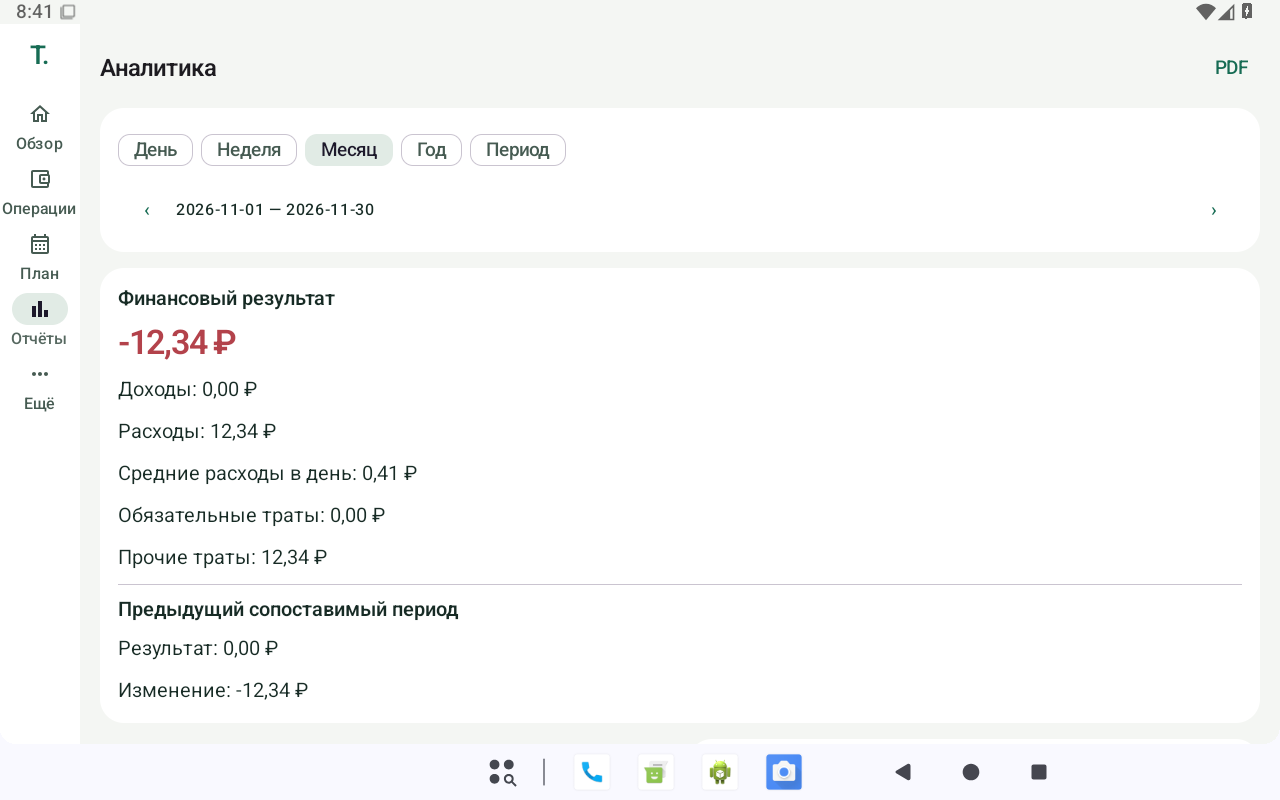
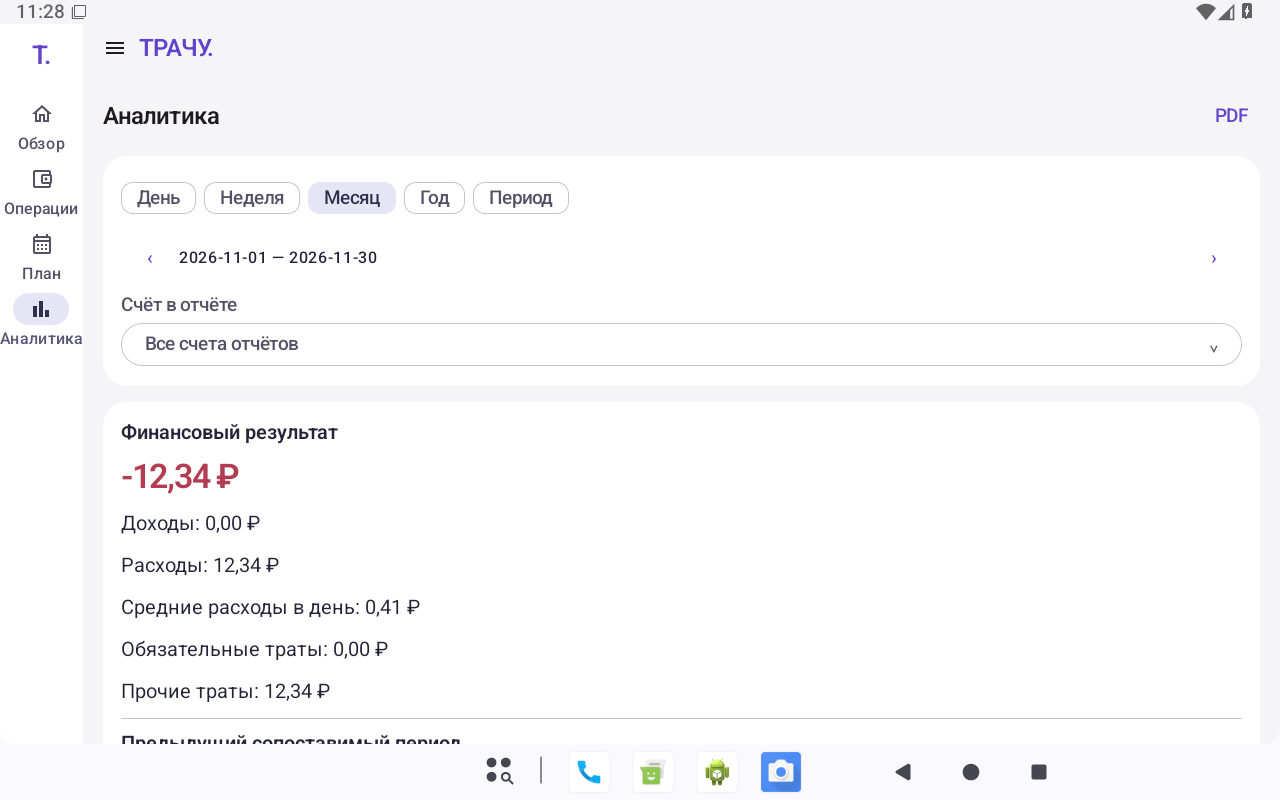
Record green 1.1.0 evidence and publish verified screenshots

diff --git a/site/index.html b/site/index.html
@@ -36,7 +36,7 @@
 <div id="budget" class="demo-screen"><h3>Бюджеты</h3><div class="demo-item"><b>Продукты</b><span>12 400 / 20 000 ₽</span><progress value="12400" max="20000">62%</progress></div><div class="demo-item"><b>Транспорт</b><span>3 500 / 6 000 ₽</span><progress value="3500" max="6000">58%</progress></div><div class="demo-item"><b>Развлечения</b><span>2 000 / 5 000 ₽</span><progress value="2000" max="5000">40%</progress></div></div>
 <div id="goals" class="demo-screen"><h3>Цели</h3><div class="demo-item"><b>Отпуск</b><span>24 000 / 40 000 ₽</span><progress value="24000" max="40000">60%</progress></div><div class="demo-item"><b>Финансовая подушка</b><span>45 000 / 100 000 ₽</span><progress value="45000" max="100000">45%</progress></div></div></div>
 <div class="demo-copy"><h3>Ваши деньги, ваши правила.</h3><p>Начните с выбора валюты и остатка первого счёта. Короткое обучение можно пропустить и открыть снова из бокового меню. Светлая и тёмная темы.</p><p>В приложении также предусмотрены защита PIN, биометрия и виджет быстрого доступа.</p></div></div></div></section>
-<section class="section" id="screens"><p class="kicker">Архив 1.0.0</p><h2>Предыдущий интерфейс.</h2><p class="intro">Эти реальные снимки относятся к версии 1.0.0, до переработки оформления. Все записи и суммы тестовые.</p><details><summary>Посмотреть архивные снимки</summary><div class="screens-grid"><figure><img src="assets/screens/phone-dashboard.png" alt="Общий баланс и быстрые действия ТРАЧУ. на смартфоне" width="320" height="640" loading="lazy"><figcaption>Обзор</figcaption></figure><figure><img src="assets/screens/phone-operations.png" alt="Поиск и фильтры операций на смартфоне" width="320" height="640" loading="lazy"><figcaption>Операции</figcaption></figure><figure class="wide-screen"><img src="assets/screens/tablet-analytics.png" alt="Аналитика и боковая навигация на планшете" width="1280" height="800" loading="lazy"><figcaption>Аналитика на планшете</figcaption></figure></div></details></section>
+<section class="section" id="screens"><p class="kicker">Реальный интерфейс 1.1.0</p><h2>Так выглядит приложение.</h2><p class="intro">Снимки из успешного Android CI <a href="https://github.com/epbloger/trachu/actions/runs/45809724539">#45809724539</a>, коммит <code>227cf9e</code>. Все записи и суммы тестовые; это не изображения концепции.</p><div class="screens-grid"><figure><img src="assets/screens/phone-dashboard.png" alt="Общий баланс и быстрые действия на смартфоне" width="1080" height="1920" loading="lazy"><figcaption>Обзор</figcaption></figure><figure><img src="assets/screens/phone-operations.png" alt="Поиск и фильтры операций" width="1080" height="1920" loading="lazy"><figcaption>Операции</figcaption></figure><figure><img src="assets/screens/phone-onboarding.png" alt="Выбор основной валюты и первого счёта" width="1080" height="1920" loading="lazy"><figcaption>Первоначальная настройка</figcaption></figure><figure><img src="assets/screens/phone-split-entry.png" alt="Распределение расхода по категориям" width="1080" height="1920" loading="lazy"><figcaption>Категории в операции</figcaption></figure><figure class="wide-screen"><img src="assets/screens/converter-landscape.png" alt="Конвертация валют в альбомной ориентации" width="1920" height="1080" loading="lazy"><figcaption>Конвертер</figcaption></figure><figure class="wide-screen"><img src="assets/screens/tablet-analytics.png" alt="Аналитика на планшете" width="1280" height="800" loading="lazy"><figcaption>Аналитика на планшете</figcaption></figure></div></section>
 <section class="section privacy" id="privacy"><p class="kicker">03 / Конфиденциальность</p><h2>Финансовая история остаётся у вас.</h2><p>Записи хранятся в приватной области приложения. Для основных функций не нужна регистрация. Курсы валют можно получать из публичного сервиса Банка России. При экспорте вы сами выбираете место сохранения файла. В сборке с рекламой на обзоре может отображаться небольшой баннер Яндекса; он не появляется во время ввода операций. Сведения об обработке технических данных приведены в политике конфиденциальности.</p><div class="actions"><a class="button" href="privacy.html">Политика конфиденциальности</a><a class="button ghost" href="terms.html">Условия использования</a></div></section>
 <section class="section" id="faq"><p class="kicker">04 / Вопросы</p><h2>Что нужно знать.</h2><details><summary>Приложение подключается к банкам?</summary><p>Нет. Вы самостоятельно вносите записи или импортируете поддерживаемые файлы. ТРАЧУ. не совершает платежи.</p></details><details><summary>Можно пользоваться без интернета?</summary><p>Да, основные функции учёта работают офлайн. Для получения официальных валютных курсов и сетевых сервисов необходим интернет.</p></details><details><summary>Как перенести данные на другой телефон?</summary><p>Создайте резервную копию с паролем, перенесите файл и восстановите его в приложении. Не теряйте пароль.</p></details><details><summary>Где скачать приложение?</summary><p>Публичный выпуск готовится. После публикации здесь появится ссылка на официальный магазин.</p></details></section>
 <section class="section release" id="release"><p class="kicker">05 / Выпуск</p><h2>ТРАЧУ. готовится к выпуску.</h2><p>Приложение находится на этапе разработки и проверки. Публичный релиз пока не объявлен.</p><div class="actions"><a class="button" href="https://github.com/epbloger/trachu/releases">Следить за релизами</a><a class="button ghost" href="mailto:helpmoorkis@yandex.ru">Связаться с поддержкой</a></div></section>

diff --git a/docs/QA_REPORT.md b/docs/QA_REPORT.md
@@ -2,7 +2,24 @@
 
 ## Кандидат 1.1.0
 
-Новая версия содержит существенные изменения UX. Для неё требуется полный Android CI, включая первоначальную настройку, категории, конвертацию, навигацию и сохранение предыдущих сценариев. Результаты ниже относятся исключительно к предыдущему кандидату; не использовать его APK как сборку 1.1.0.
+Первый полный зелёный прогон 1.1.0: [Android integration #45809724539](https://github.com/epbloger/trachu/actions/runs/45809724539), исходный коммит [`227cf9e`](https://github.com/epbloger/trachu/commit/227cf9eb651853ff224c9295dc4923581fb278cb). Проверены отчёты QA, исходный SHA и контрольная сумма извлечённого debug APK.
+
+| Проверка | Результат |
+|---|---|
+| JVM | 42/42 |
+| Android 16, смартфон | 19/19 |
+| Android 16, планшет, font scale 1.3 | 19/19 |
+| Android 8 | 10/10 |
+| Android 13 | 19/19 |
+| Портретные снимки высокого разрешения | 1/1 |
+| Всего | 110/110 |
+| Lint | 0 ошибок; по 23 предупреждения и 1 подсказке на вариант |
+| Офлайн | PASS: 4250 копеек после холодного перезапуска, нет default network до и после |
+| APK/AAB | SHA-256, ZIP CRC, 8 ELF-библиотек каждого артефакта, zipalign 16 КиБ — PASS |
+
[1 lines of base64/hex data omitted]
+
+Следующий коммит [`b58080e`](https://github.com/epbloger/trachu/commit/b58080ef4b755130ad45f62a6aab75e7617ea920) содержит дополнительные исправления и тесты; [его полный Android CI #45811125140](https://github.com/epbloger/trachu/actions/runs/45811125140) запущен отдельно. Предыдущий зелёный прогон не подтверждает новые изменения до завершения этого CI.
 
 Дополнительный интеграционный цикл включает точный пересчёт сохранённых кросс-курсов, реальные проверки настройки и восстановления через Room/DataStore, редактирование повторённой операции, обратный обмен в конвертере, проверку новых экранов в светлой и тёмной теме. В CI добавлена установка поверх реальной 1.0.0, собранной из проверенного исходного коммита с тем же отладочным сертификатом; проверяются целостность и идентичность всех записей SQLite без очистки данных. Результаты этого цикла фиксируются только после завершения соответствующего запуска.
 
@@ -26,7 +43,7 @@
 | Подпись APK | Проверена, APK Signature Scheme v2, debug key |
 | Сайт | GitHub Pages; проверены desktop/mobile 1440/390/320 px, переключение экранов/темы, локальные ссылки, юридические страницы |
 
-Все PNG в `site/assets/screens/` — реальные снимки предыдущего [CI #45784489791](https://github.com/epbloger/trachu/actions/runs/45784489791), с синтетическими данными, не изображения концепции. Они относятся к `79dadd7`, а не к текущему коду. Отчёт новой сборки содержит XML тестов, Lint, манифесты, SHA и результаты проверки подписи.
+Исторические снимки интерфейса 1.0.0 были получены в [CI #45784489791](https://github.com/epbloger/trachu/actions/runs/45784489791), коммит `79dadd7`. На сайте они заменены реальными снимками 1.1.0 с явно указанным исходным коммитом.
 
 ## Последующие изменения
 

diff --git a/docs/RELEASE_CHECKLIST.md b/docs/RELEASE_CHECKLIST.md
@@ -1,6 +1,6 @@
 # Проверка готовности
 
-Кандидат 1.1.0 требует новой полной проверки: первоначальная настройка, обучение, выдвижное меню, конвертер, создание категорий из операции, быстрые даты и новое оформление. Предыдущий кандидат 1.0.0 (`55a0d20`) имел [95 успешных автоматизированных тестов, артефакты и офлайн-проверку](QA_REPORT.md), но эти результаты не подтверждают новый интерфейс. Публикация и физические испытания не подтверждены. Проверка сохранённых доказательств 1.0.0 без пересборки завершилась успешно в [#45804081213](https://github.com/epbloger/trachu/actions/runs/45804081213).
+Первый кандидат 1.1.0 (`227cf9e`) прошёл 110/110 тестов, Lint, офлайн-проверку и статическую проверку 16 КиБ: [успешный CI #45809724539](https://github.com/epbloger/trachu/actions/runs/45809724539). Дополнительные изменения `b58080e` проходят отдельный [CI #45811125140](https://github.com/epbloger/trachu/actions/runs/45811125140); его результат необходим для итоговой готовности текущего Android-кода. Предыдущий кандидат 1.0.0 (`55a0d20`) имел [95 успешных автоматизированных тестов, артефакты и офлайн-проверку](QA_REPORT.md), но эти результаты не подтверждают новый интерфейс. Публикация и физические испытания не подтверждены. Проверка сохранённых доказательств 1.0.0 без пересборки завершилась успешно в [#45804081213](https://github.com/epbloger/trachu/actions/runs/45804081213).
 
 | Проверка | Критерий |
 |---|---|

diff --git a/README.md b/README.md
@@ -31,12 +31,14 @@ Android 8.0+ · Без регистрации · Основные функции
 
 ## Реальный интерфейс
 
-Архивные снимки интерфейса 1.0.0 из автоматической проверки Android. Оформление 1.1.0 переработано; новые снимки публикуются только после проверки новой сборки.
+Реальные снимки 1.1.0 из [успешной автоматической проверки Android #45809724539](https://github.com/epbloger/trachu/actions/runs/45809724539), коммит `227cf9e`. Суммы и записи тестовые.
 
 <p align="center">
   <img src="site/assets/screens/phone-dashboard.png" alt="Обзор на смартфоне" width="220">
   <img src="site/assets/screens/phone-operations.png" alt="Операции и фильтры на смартфоне" width="220">
 </p>
+
+<p align="center"><img src="site/assets/screens/phone-onboarding.png" alt="Первоначальная настройка" width="220"> <img src="site/assets/screens/phone-split-entry.png" alt="Категории в операции" width="220"></p>
 
 <p align="center"><img src="site/assets/screens/tablet-analytics.png" alt="Аналитика на планшете" width="760"></p>
 
